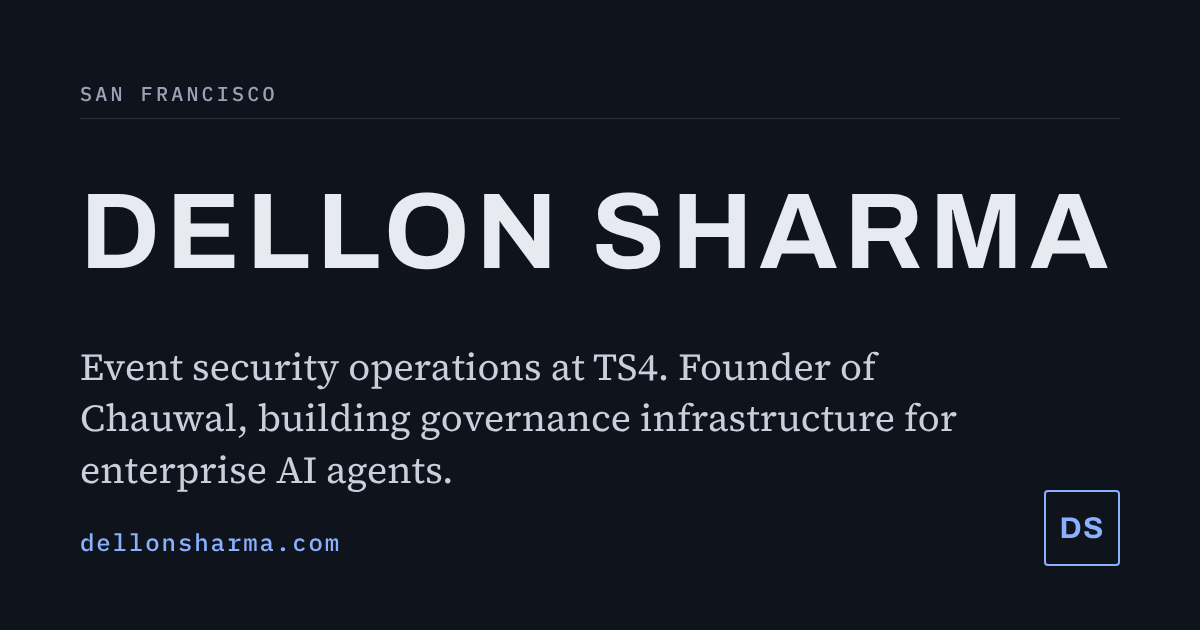
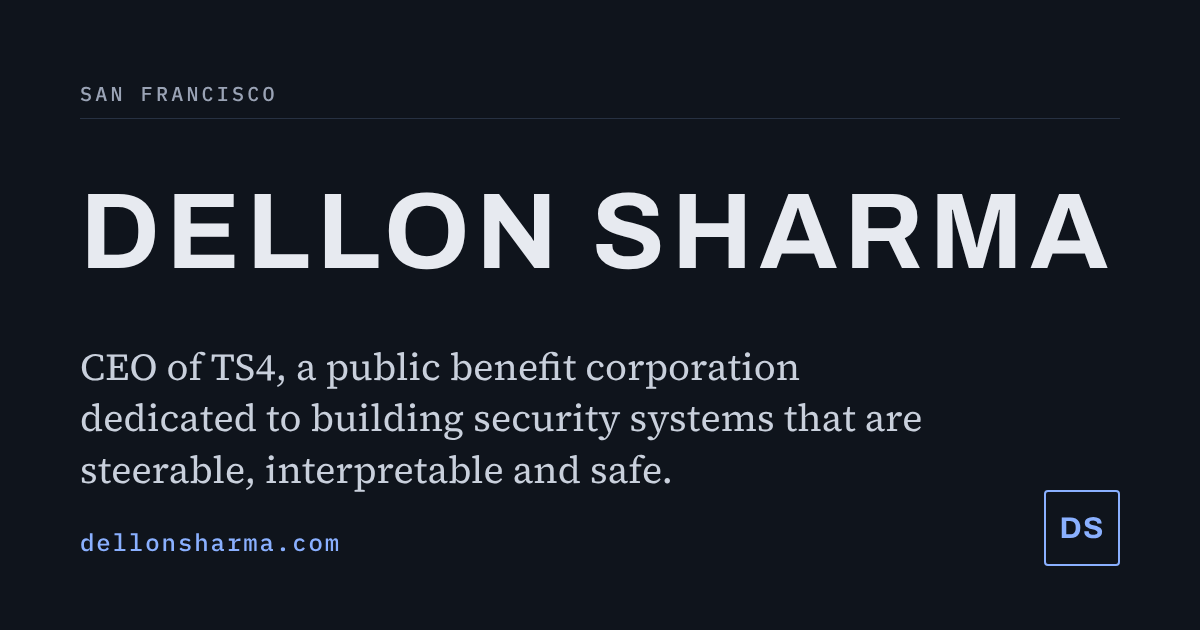
Update bio to CEO of TS4; remove Chauwal content
Rewrites the lede and responsibilities per Dellon's text, removes the
Chauwal paragraph, Work entry and two Writing titles, and regenerates
the social card and page descriptions to match.

Claude-Session: https://claude.ai/code/session_01Tdd38K9P9jQgd2KLY5RU74

Changed region(s): [[0.0617, 0.5429, 0.8017, 0.6937], [0.0617, 0.7238, 0.555, 0.7841]]

diff --git a/index.html b/index.html
@@ -4,7 +4,7 @@
 <meta charset="utf-8">
 <meta name="viewport" content="width=device-width, initial-scale=1, viewport-fit=cover">
 <title>Dellon Sharma</title>
-<meta name="description" content="Dellon Sharma is an Event Manager at TS4 Security Services in San Francisco and the founder of Chauwal, a venture building governance infrastructure for enterprise AI agents.">
+<meta name="description" content="Dellon Sharma is the CEO of TS4, a public benefit corporation dedicated to building security systems that are steerable, interpretable and safe.">
 <link rel="canonical" href="https://dellonsharma.com/">
 <meta name="author" content="Dellon Sharma">
 <meta name="color-scheme" content="light dark">
@@ -14,7 +14,7 @@
 <meta property="og:type" content="website">
 <meta property="og:site_name" content="Dellon Sharma">
 <meta property="og:title" content="Dellon Sharma">
-<meta property="og:description" content="Event security operations at TS4. Founder of Chauwal, building governance infrastructure for enterprise AI agents.">
+<meta property="og:description" content="CEO of TS4, a public benefit corporation dedicated to building security systems that are steerable, interpretable and safe.">
 <meta property="og:url" content="https://dellonsharma.com/">
 <meta property="og:image" content="https://dellonsharma.com/og.png">
 <meta property="og:image:width" content="1200">
@@ -22,7 +22,7 @@
 <meta property="og:image:alt" content="Dellon Sharma — dellonsharma.com">
 <meta name="twitter:card" content="summary_large_image">
 <meta name="twitter:title" content="Dellon Sharma">
-<meta name="twitter:description" content="Event security operations at TS4. Founder of Chauwal, building governance infrastructure for enterprise AI agents.">
+<meta name="twitter:description" content="CEO of TS4, a public benefit corporation dedicated to building security systems that are steerable, interpretable and safe.">
 <meta name="twitter:image" content="https://dellonsharma.com/og.png">
 
 <link rel="icon" href="/favicon.svg" type="image/svg+xml">
@@ -39,7 +39,7 @@
   "name": "Dellon Sharma",
   "url": "https://dellonsharma.com/",
   "email": "dsharma4@ts4security.com",
-  "jobTitle": "Event Manager",
+  "jobTitle": "Chief Executive Officer",
   "worksFor": { "@type": "Organization", "name": "TS4 Security Services Inc.", "url": "https://ts4security.com" },
   "address": { "@type": "PostalAddress", "addressLocality": "San Francisco", "addressRegion": "CA", "addressCountry": "US" }
 }
@@ -271,11 +271,18 @@
   </header>
 
   <div class="bio" id="bio">
-    <p class="lede">Dellon Sharma is an Event Manager at <a href="https://ts4security.com">TS4 Security Services</a>, the San Francisco firm that has provided security at Moscone Center since the venue opened, and the founder of Chauwal, a venture building governance infrastructure for enterprise AI agents.</p>
+    <p class="lede">Dellon Sharma is the CEO of <a href="https://ts4security.com">TS4</a>, a public benefit corporation dedicated to building security systems that are steerable, interpretable and safe.</p>
     <button class="more-btn" id="more-btn" type="button" aria-expanded="false" aria-controls="bio-more">More</button>
     <div class="bio-more" id="bio-more" hidden>
-      <p>At TS4, which also operates as Maloney Event Security, he runs operations, business development, and administration for conventions and venue contracts: staffing and scheduling, proposals and RFP responses, contracts, and invoicing. Over the past four years he has managed security for shows at Moscone Center and at venues including Pier 48, the St. Regis, the Marriott Marquis, and the Four Seasons.</p>
-      <p>Chauwal grew out of that work. Its product, Concord, is a governance plane for enterprise fleets of AI agents: a control-plane engine and operator console for setting policy and delegating authority to agents working at the edge, modeled on how a well-run security operation commands people on the floor.</p>
+      <p>At TS4, his main responsibilities include:</p>
+      <ul class="plain">
+        <li><strong>Setting direction:</strong> Deciding the company’s goals, priorities, and strategy.</li>
+        <li><strong>Leading product development:</strong> Overseeing vehicle design, engineering, batteries, and energy products.</li>
+        <li><strong>Overseeing manufacturing:</strong> Working with leadership to improve production and solve major problems.</li>
+        <li><strong>Building the leadership team:</strong> Recruiting executives and engineers and holding teams accountable.</li>
+        <li><strong>Supporting the business:</strong> Helping raise money, attract investors, and represent Tesla publicly.</li>
+      </ul>
+      <p>He delegates work to executives and managers while remaining responsible for overall leadership.</p>
       <p>He writes about AI governance, platform economics, and the long arc of management systems from MRP to agentic AI.</p>
     </div>
   </div>
@@ -293,16 +300,6 @@
         <span class="meta"><span class="tag">In progress</span></span>
         <p class="desc">Adapting a military command doctrine to organizations that delegate real authority to AI agents.</p>
       </li>
-      <li>
-        <span class="title">Why Enterprise Agent Fleets Need a Governance Plane</span>
-        <span class="meta"><span class="tag">In progress</span></span>
-        <p class="desc">The first-principles case behind Chauwal and Concord.</p>
-      </li>
-      <li>
-        <span class="title">Chauwal in 2056</span>
-        <span class="meta"><span class="tag">In progress</span></span>
-        <p class="desc">A long-range view of what governed agent infrastructure looks like thirty years out.</p>
-      </li>
     </ul>
     <p class="note">Working titles. Essays will be linked here as they are published.</p>
   </section>
@@ -311,13 +308,8 @@
     <h2 class="eyebrow" id="work-h">Work</h2>
     <ul class="list">
       <li>
-        <span class="title">Chauwal</span>
-        <span class="meta">Founder</span>
-        <p class="desc">Governance infrastructure for enterprise AI agents. Product: Concord, a control-plane engine with an operator console.</p>
-      </li>
-      <li>
         <span class="title"><a href="https://ts4security.com">TS4 Security Services Inc.</a></span>
-        <span class="meta">Event Manager · San Francisco</span>
+        <span class="meta">CEO · San Francisco</span>
         <p class="desc">Event security and private patrol, CA BSIS PPO 122546. Moscone Center, Pier 48, St. Regis, Marriott Marquis, Four Seasons, and other Bay Area venues.</p>
       </li>
     </ul>
